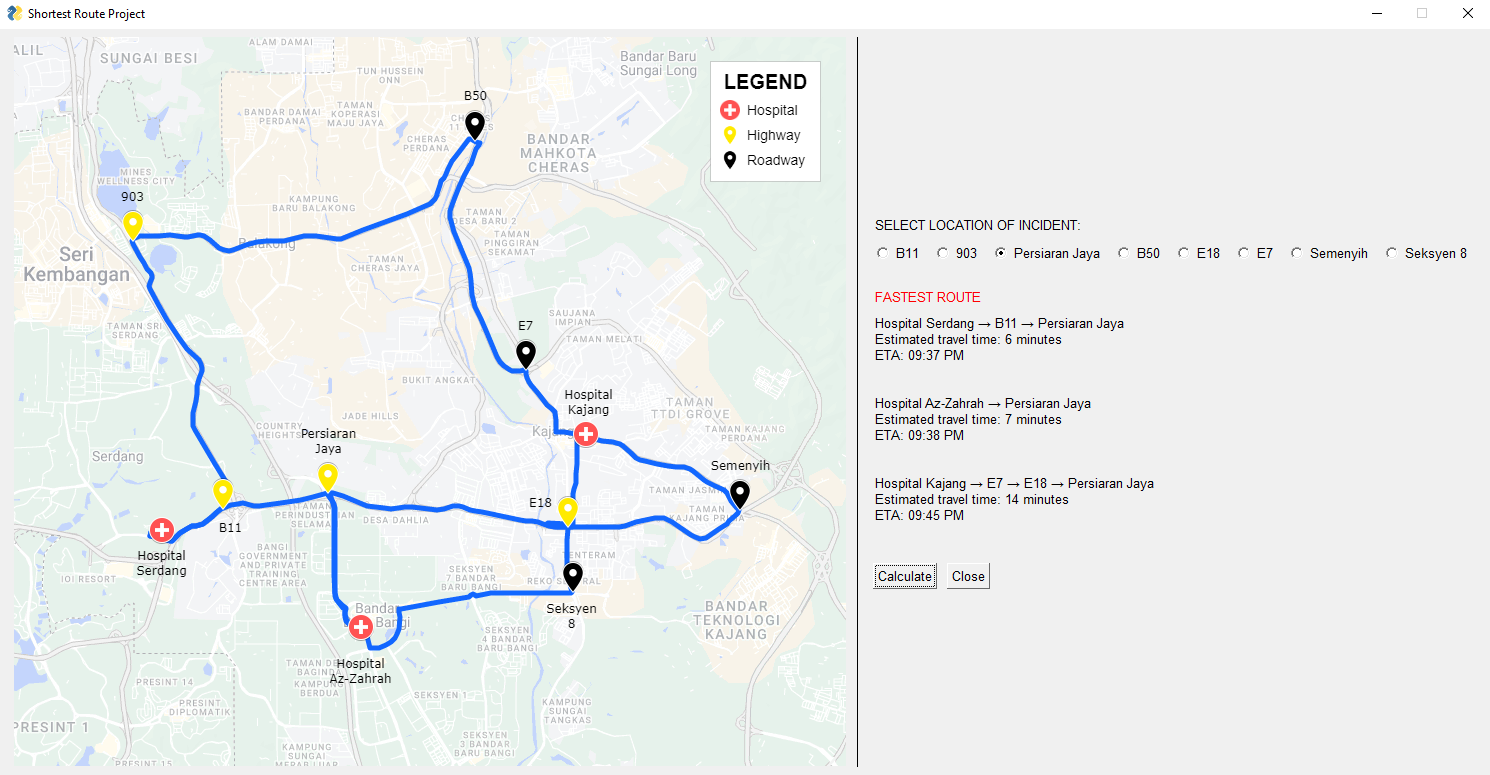
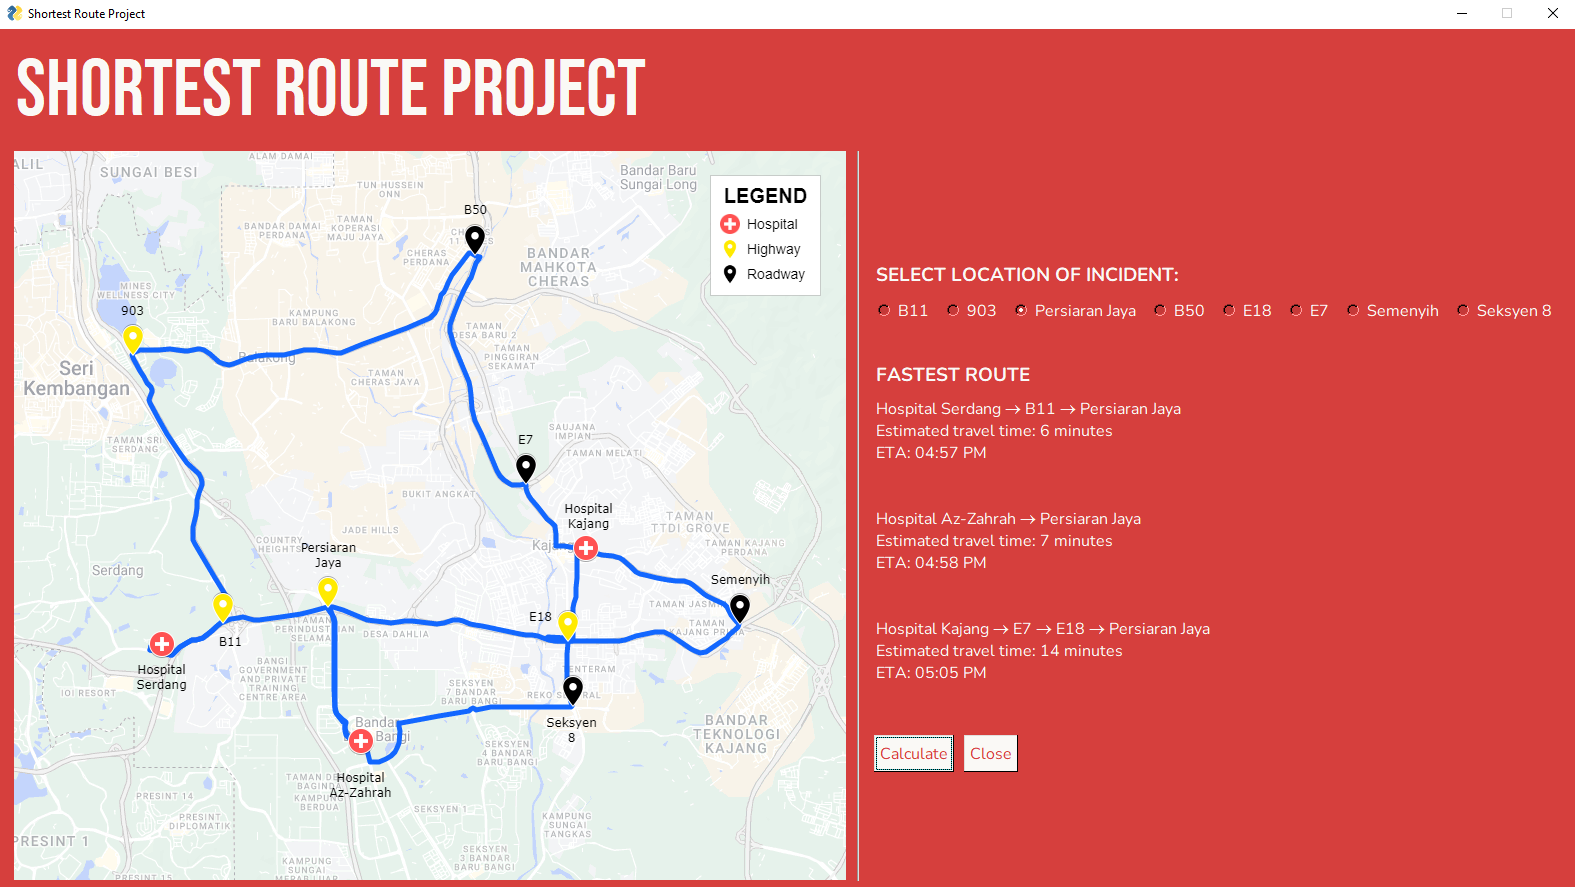
Updated assets, updated GUI

diff --git a/shortestrouteproject.py b/shortestrouteproject.py
@@ -140,47 +140,62 @@ def calculations(destination):
     return '\n'.join(str(x) for x in results)
 
 # GUI
-sg.theme('default1')  # Add a touch of color
+sg.LOOK_AND_FEEL_TABLE['MyTheme'] = {'BACKGROUND': '#d63f3d',
+                                        'TEXT': '#FAF9F6',
+                                        'INPUT': '#339966',
+                                        'TEXT_INPUT': '#000000',
+                                        'SCROLL': '#99CC99',
+                                        'BUTTON': ('#d63f3d', '#FAF9F6'),
+                                        'PROGRESS': ('#D1826B', '#CC8019'),
+                                        'BORDER': 1, 'SLIDER_DEPTH': 0,
+                                        'PROGRESS_DEPTH': 0, }
+
+sg.theme('MyTheme')  # Add a touch of color
+
+fontNunito = ('Nunito', 12)
 
 # Sublayout for functions
 sublayout1 = [
 
     # Select site of incident
     [
-        sg.Text('SELECT LOCATION OF INCIDENT:')
+        sg.Text('SELECT LOCATION OF INCIDENT:', font=('Nunito Bold', 14))
     ],
 
     # Radio buttons
     [
-        sg.Radio('B11', "RADIO1", default=False),
-        sg.Radio('903', "RADIO1"),
-        sg.Radio('Persiaran Jaya', "RADIO1"),
-        sg.Radio('B50', "RADIO1"),
-        sg.Radio('E18', "RADIO1"),
-        sg.Radio('E7', "RADIO1"),
-        sg.Radio('Semenyih', "RADIO1"),
-        sg.Radio('Seksyen 8', "RADIO1")
+        sg.Radio('B11', "RADIO1", font=fontNunito, default=False),
+        sg.Radio('903', "RADIO1", font=fontNunito),
+        sg.Radio('Persiaran Jaya', "RADIO1", font=fontNunito),
+        sg.Radio('B50', "RADIO1", font=fontNunito),
+        sg.Radio('E18', "RADIO1", font=fontNunito),
+        sg.Radio('E7', "RADIO1", font=fontNunito),
+        sg.Radio('Semenyih', "RADIO1", font=fontNunito),
+        sg.Radio('Seksyen 8', "RADIO1", font=fontNunito)
     ],
 
     # FASTEST ROUTE text
     [
-        sg.Text("\nFASTEST ROUTE", visible=False, text_color='red', key='fastest')
+        sg.Text("\nFASTEST ROUTE", visible=False, font=('Nunito Bold', 14), key='fastest')
     ],
 
     # Results (initially is invisible before inputs are sent for calculation)
     [
-        sg.Text(calculations("B"), visible=False, key='results')
+        sg.Text(calculations("B"), visible=False, font=fontNunito, key='results')
     ],
 
     # Calculate and Close buttons
     [
-        sg.Button('Calculate'), sg.Button('Close')
+        sg.Button('Calculate', font=fontNunito), sg.Button('Close', font=fontNunito)
     ]
 ]
 
 # Main layout
 layout1 = [
 
+    [
+        sg.Text('Shortest Route Project', font=('Bebas Neue', 60))
+    ],
     # Labelled map
     [
         sg.Image('resources/finalmap.png'),
